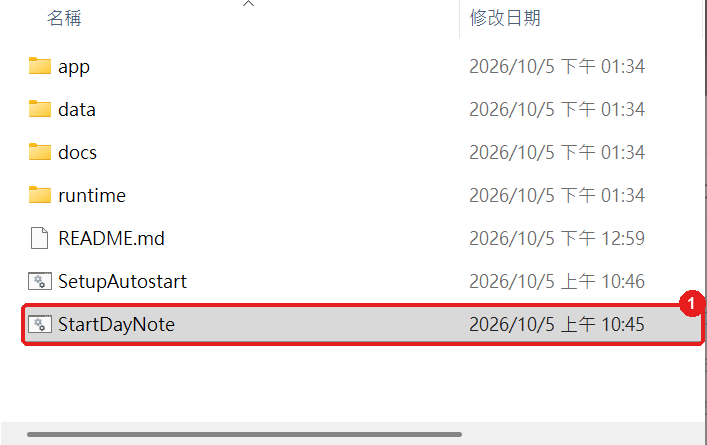
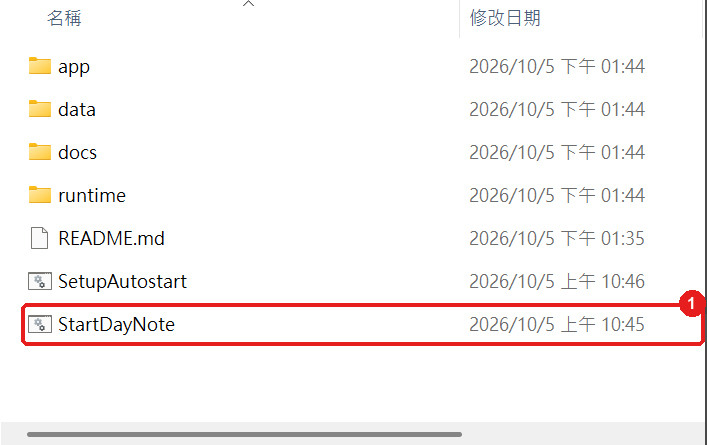
Package portable build as single-level DayNote.zip

diff --git a/tools/build_portable.py b/tools/build_portable.py
@@ -2,10 +2,9 @@
 
 用法（在已安裝 Python 3.10 以上、含 tcl/tk 的電腦，於 DayNote 資料夾執行）：
     python tools/build_portable.py
-產出：dist/DayNote-portable.zip
+產出：dist/DayNote.zip
 
-壓縮包內容：
-    DayNote/
+壓縮包內容（檔案直接放在最上層，Windows「解壓縮全部」會產生單層的 DayNote 資料夾）：
       StartDayNote.bat, SetupAutostart.bat, README.md
       app/                 程式
       data/                只有 config.example.json（個人資料一律不放）
@@ -85,12 +84,12 @@ def main():
     if leaked:
         sys.exit(f"壓縮包含有個人檔案，已中止：{leaked}")
 
-    zip_path = os.path.join(DIST, "DayNote-portable.zip")
+    zip_path = os.path.join(DIST, "DayNote.zip")
     with zipfile.ZipFile(zip_path, "w", zipfile.ZIP_DEFLATED) as zf:
         for folder, _, files in os.walk(stage):
             for f in files:
                 full = os.path.join(folder, f)
-                zf.write(full, os.path.relpath(full, DIST))
+                zf.write(full, os.path.relpath(full, stage))  # 不含外層資料夾，避免解壓縮後變兩層
     print(f"完成：{zip_path}（{os.path.getsize(zip_path) / 1024 / 1024:.1f} MB）")
 
 

diff --git a/README.md b/README.md
@@ -35,18 +35,18 @@ DayNote\
 
 | 版本 | 適合 | 需要安裝 |
 |---|---|---|
-| **可攜版**（[`DayNote-portable.zip`](https://github.com/MinHao1103/DayNote/releases/latest/download/DayNote-portable.zip)） | 一般使用、換電腦 | 不需要，內附 Python，解壓縮即可 |
+| **可攜版**（[`DayNote.zip`](https://github.com/MinHao1103/DayNote/releases/latest/download/DayNote.zip)） | 一般使用、換電腦 | 不需要，內附 Python，解壓縮即可 |
 | 原始碼版（本 repo） | 開發 | [Python 3.10+](https://www.python.org/downloads/)（保留預設勾選的 tcl/tk） |
 
 ### 下載（不需要 git）
 
 **可攜版（建議，不用裝 Python）**
 
-1. 打開 [Release 頁面](https://github.com/MinHao1103/DayNote/releases/latest)，點 ①「DayNote-portable.zip」，檔案會存到「下載」資料夾（約 16 MB）
+1. 打開 [Release 頁面](https://github.com/MinHao1103/DayNote/releases/latest)，點 ①「DayNote.zip」，檔案會存到「下載」資料夾（約 16 MB）
 
 <img src="docs/images/guide/d01-release-download.png" alt="下載可攜版">
 
-2. 打開「下載」資料夾，對 `DayNote-portable` 按右鍵 → ①「解壓縮全部…」
+2. 打開「下載」資料夾，對 `DayNote` 按右鍵 → ①「解壓縮全部…」
 
 <img src="docs/images/guide/d02-extract-menu.png" width="480" alt="解壓縮全部">
 
@@ -54,11 +54,11 @@ DayNote\
 
 <img src="docs/images/guide/d03-extract-dialog.png" width="560" alt="解壓縮">
 
-4. 解壓縮完會自動開啟資料夾，點兩下進入 `DayNote` 資料夾 → 點兩下 ①「StartDayNote」，接著做下面的「第一次設定」
+4. 解壓縮完會自動開啟 `DayNote` 資料夾 → 點兩下 ①「StartDayNote」，接著做下面的「第一次設定」
 
 <img src="docs/images/guide/d04-start-bat.png" width="480" alt="StartDayNote">
 
-> 檔案總管預設不顯示副檔名，所以看到的是 `DayNote-portable`、`StartDayNote`，不是 `.zip`、`.bat`。
+> 檔案總管預設不顯示副檔名，所以看到的是 `DayNote`、`StartDayNote`，不是 `.zip`、`.bat`。
 
 **原始碼版**：
 
@@ -73,7 +73,7 @@ DayNote\
 
 ### 自己打包可攜版
 
-可攜版由原始碼版產生：`python tools\build_portable.py` → `dist/DayNote-portable.zip`（約 16 MB，不含任何個人檔案）。
+可攜版由原始碼版產生：`python tools\build_portable.py` → `dist/DayNote.zip`（約 16 MB，不含任何個人檔案）。
 
 換電腦時：解壓縮可攜版（或複製整個資料夾，含 `data\config.json`），重新登入一次即可；`data\token.bin` 綁定原本的 Windows 帳號，無法沿用。
 
